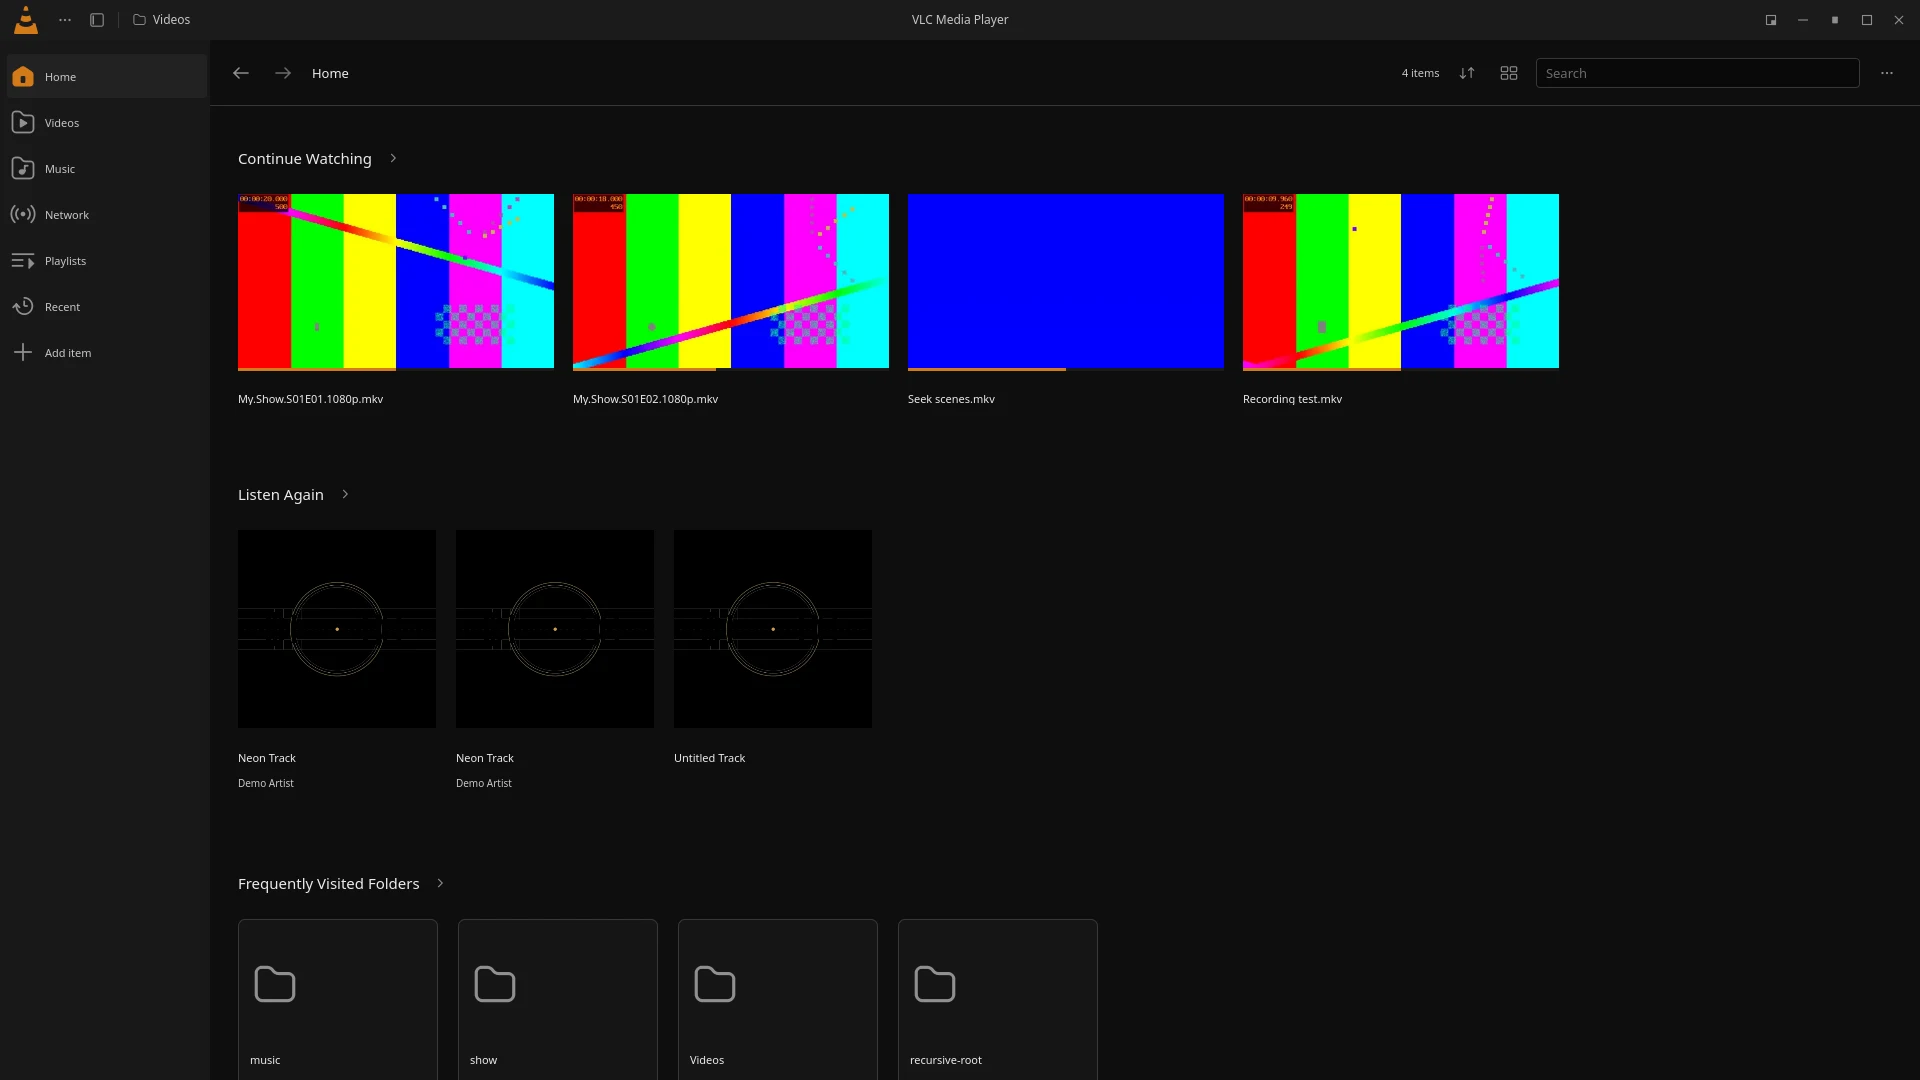
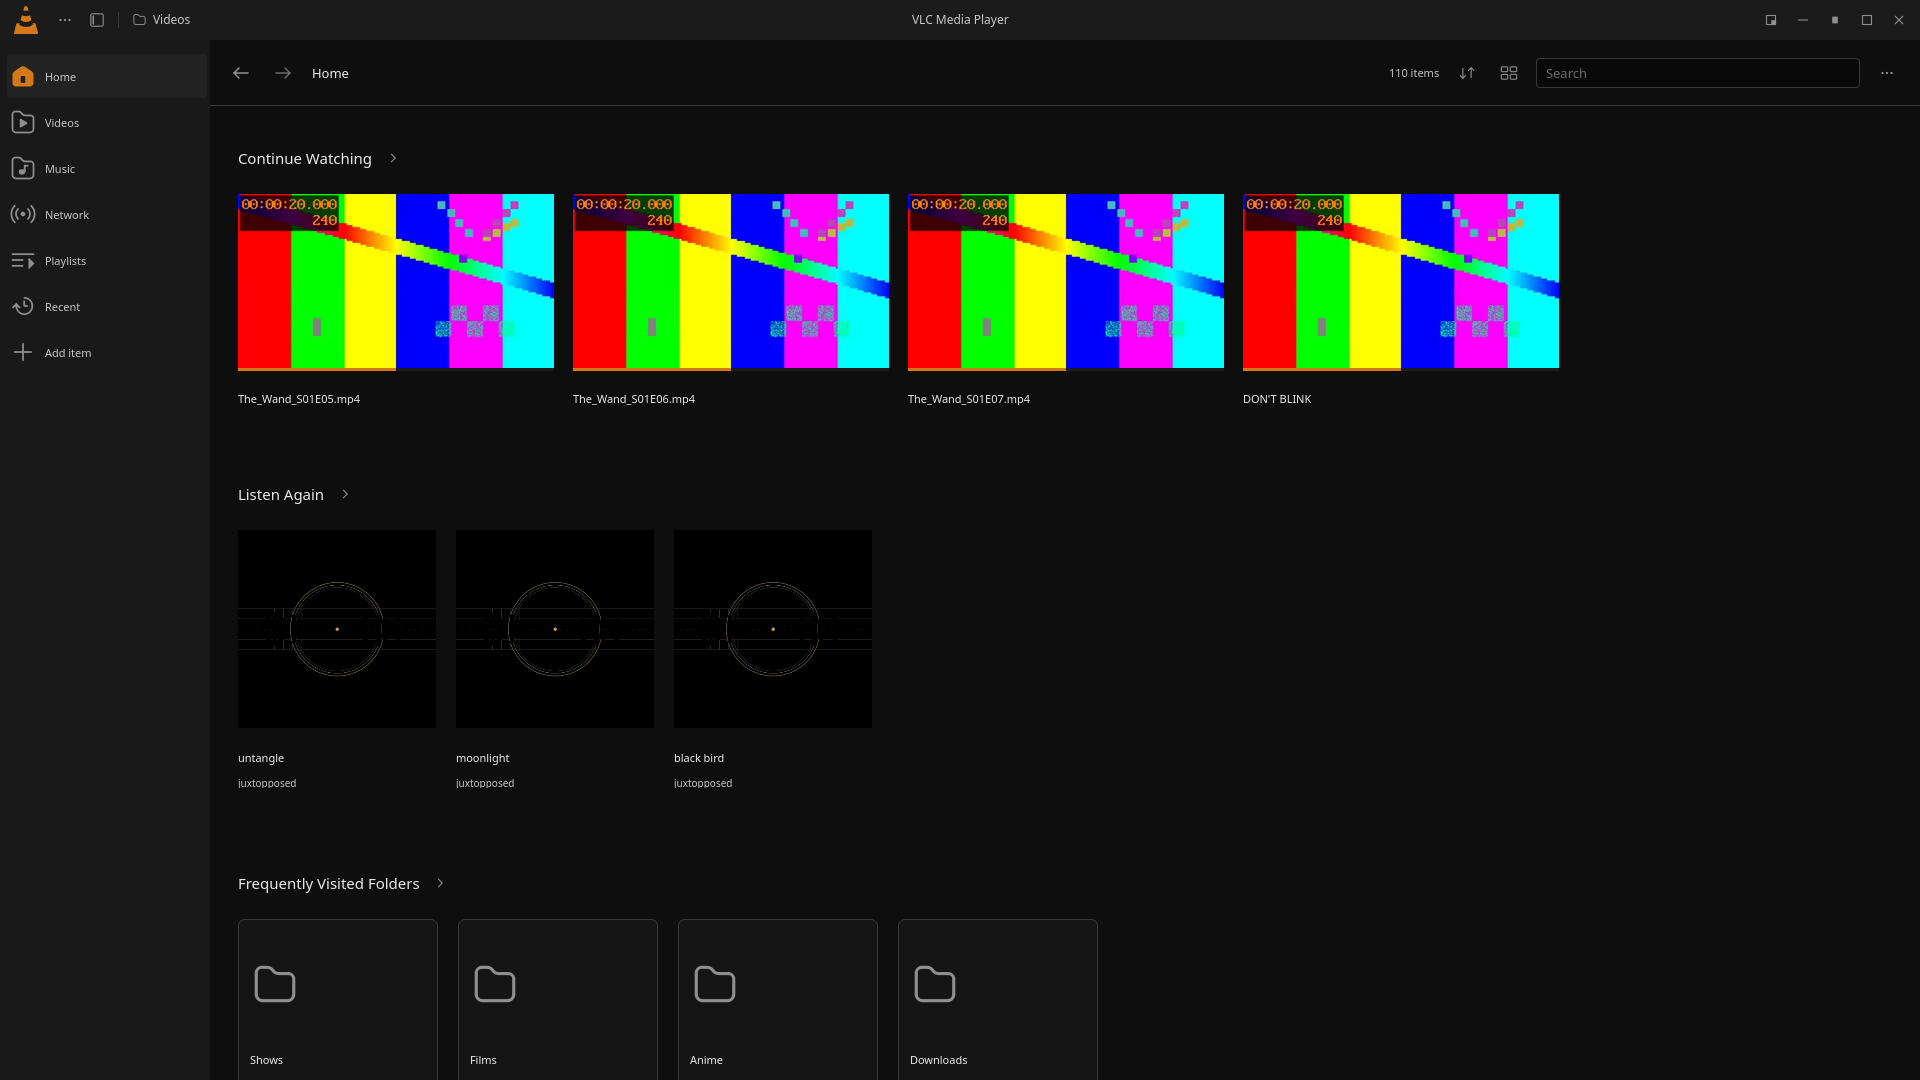
[skip ci] docs: refresh Home review at 110 items

diff --git a/docs/figma-parity.md b/docs/figma-parity.md
@@ -237,7 +237,7 @@ Recording-settings Figma follow-up (2026-10-29): the 1048×865 capture beside no
 The refreshed recording screenshot uses an isolated config with “Play locally while streaming” enabled, matching the Figma example state. It now shows the reference values “Automatic” for Cast quality and “Medium” for Encoding preset; the user's actual preferences were not changed for this capture.
 
 The same `6571:16429` capture shows the x264 encoding preset as “Medium”, while VLC's unset `sout-x264-preset` value was rendered as “Automatic”. `VlcOption` now maps the empty VLC value to the real `medium` choice for display; selecting it writes `medium`, which leaves x264 on its default preset. The same-size capture and focused offscreen check now show `Medium`, and the smoke suite asserts the alias without changing the original setting before the user selects a preset.
-Home screen comparison (2026-10-29): Figma MCP rendered node `6261:15078` at 1600×900 from its 1920×1080 frame. A fresh 1920×1040 real-window capture aligns the 210 px expanded rail, content start, Home heading and first-shelf card bounds after accounting for the 40 px titlebar. The Figma reference shows 110 indexed items and its own episode artwork; this desktop shows zero indexed items and the user’s recent media, so the check confirms layout geometry only. The source export still contains no corresponding episode posters or video files.
+Home screen comparison (2026-10-29): Figma MCP rendered node `6261:15078` at 1600×900 from its 1920×1080 frame. A fresh 1920×1040 real-window capture aligns the 210 px expanded rail, content start, Home heading and first-shelf card bounds after accounting for the 40 px titlebar. The Figma reference shows 110 indexed items and its own episode artwork. The refreshed [`home-full-layout-review.webp`](screenshots/home-full-layout-review.webp) is a 1920×1080 real-VLC capture made with the asynchronous 110-video index; the review fixture supplies the visible 4-video/3-music/4-folder Home shelves and all four video thumbnails decode. This confirms the item count and layout, not artwork fidelity: its color bars and music art are synthetic, and the fourth folder label (`Downloads`) remains unverified against Figma. The source export still contains no corresponding episode posters or video files.
 
 OpenSubtitles API-key visual follow-up (2026-10-29): a real 1048×865 capture showed the inline field starting 124 px left of neighboring controls. The field and actions now follow the existing settings form language, with Save key as the primary action below the aligned 320 px field and Remove key as a secondary action. At 720×560 the label, explanation, full-width password field and actions remain inside the scroll viewport. The focused desktop and compact QML geometry probes both pass; the installed VLC Neo session was relaunched with this layout. `screenshots/settings-subtitles.webp` now contains the post-fix 1048×865 capture; the previous image predated the API-key layout correction.
 
